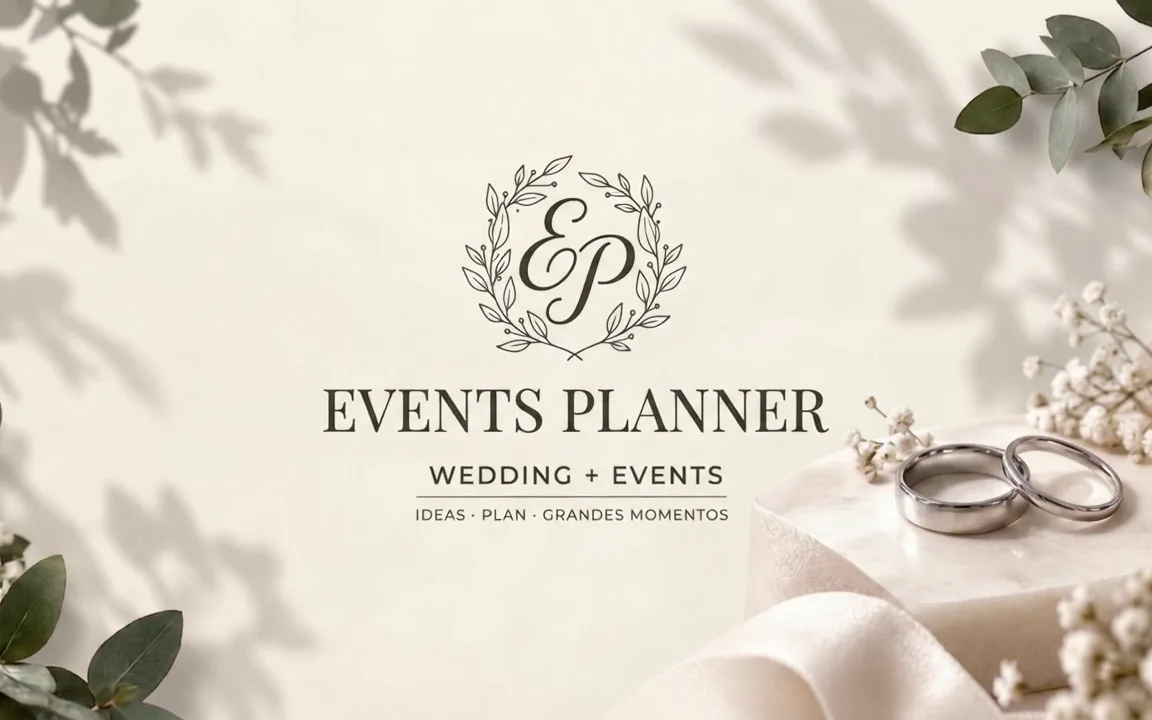
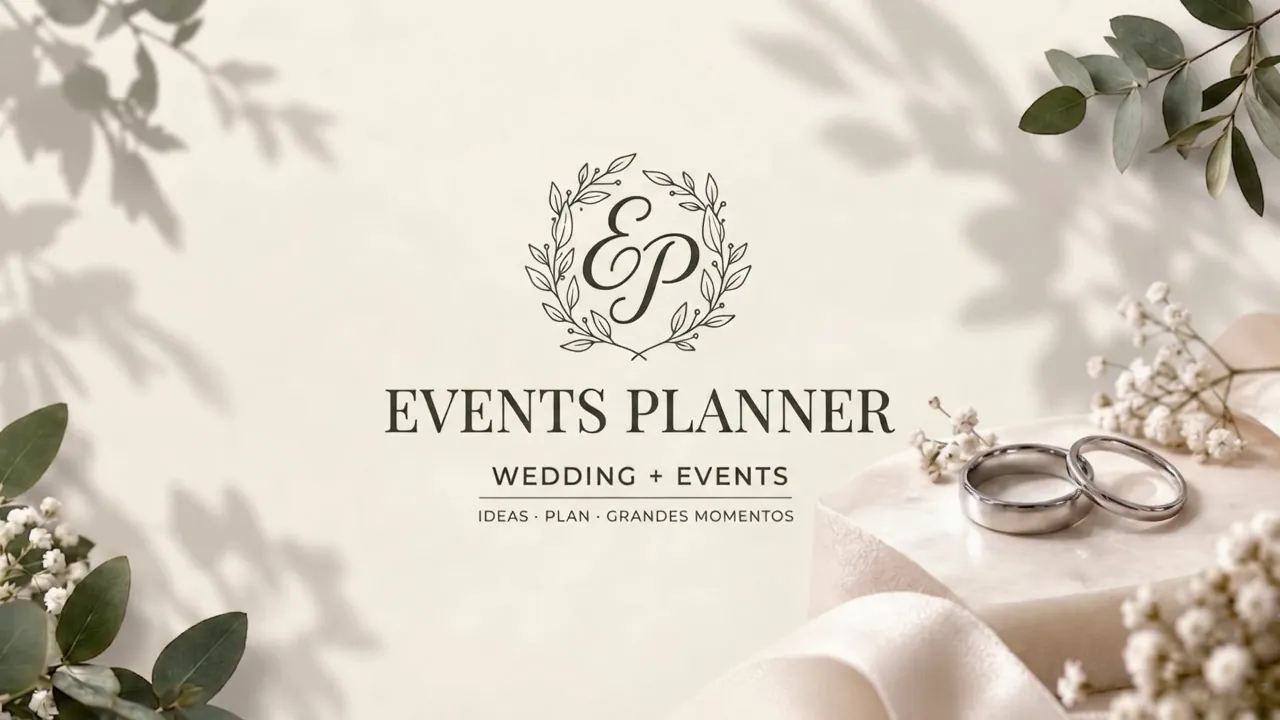
feat(aem): poster de Events Planner a la resolucion nativa del fotograma (1280x720 sin recorte) en la tarjeta y el hero de /aem/

diff --git a/public/aem/index.html b/public/aem/index.html
@@ -183,7 +183,7 @@ button{font-family:inherit;cursor:pointer;border:none;background:none;color:inhe
 .hero-media img{
   display:block;width:100%;height:auto;
   object-fit:cover;object-position:50% 40%;
-  aspect-ratio:1152/720;
+  aspect-ratio:1280/720;
 }
 /* Datos del proyecto fuera del marco, centrados abajo */
 .hero-datos{
@@ -230,7 +230,7 @@ button{font-family:inherit;cursor:pointer;border:none;background:none;color:inhe
   .hero-eyebrow{order:1;margin-bottom:16px}
   .hero h1{order:2;margin-bottom:20px}
   .hero-media{order:3;margin-bottom:28px}
-  .hero-media img{width:min(100%,calc(38svh*1.6));margin:0 auto}
+  .hero-media img{width:min(100%,calc(38svh*1.78));margin:0 auto}
   .hero-linea{order:4;margin:0 auto 20px}
   .hero-sub{order:5}
   .hero-datos{order:6}
@@ -864,6 +864,7 @@ body{font-size:var(--t-body);line-height:var(--t-body-lh)}
 .volver,.demo-cta{transition:transform var(--dur-micro) var(--ease-out),background var(--dur-micro)}
 .demo-btn{transition:transform var(--dur-micro) var(--ease-out),background var(--dur-micro),box-shadow var(--dur-micro)}
 .rv{transition:opacity var(--dur-enter) var(--ease-out),transform var(--dur-enter) var(--ease-out)}
+@media(max-width:480px){.hero-eyebrow::before,.hero-eyebrow::after{width:16px}}
 @media(max-width:720px){.hero{padding-inline:var(--gutter)}.seccion{padding:var(--sec-y) var(--gutter)}.cita{padding:var(--sec-y) var(--gutter)}.caso{padding:var(--sp-3)}}
 </style>
 <link rel="stylesheet" href="/src/case-type.css">
@@ -896,7 +897,7 @@ body{font-size:var(--t-body);line-height:var(--t-body-lh)}
   </div>
 
   <div class="hero-media">
-    <img src="/assets/previews/events-planner-poster.webp" width="1152" height="720" alt="Events Planner, pantalla de bienvenida: monograma EP y logotipo Events Planner · Wedding + Events sobre unas alianzas y eucalipto">
+    <img src="/assets/previews/events-planner-poster.webp" width="1280" height="720" alt="Events Planner, pantalla de bienvenida: monograma EP y logotipo Events Planner · Wedding + Events sobre unas alianzas y eucalipto">
   </div>
 
   <div class="hero-datos">
